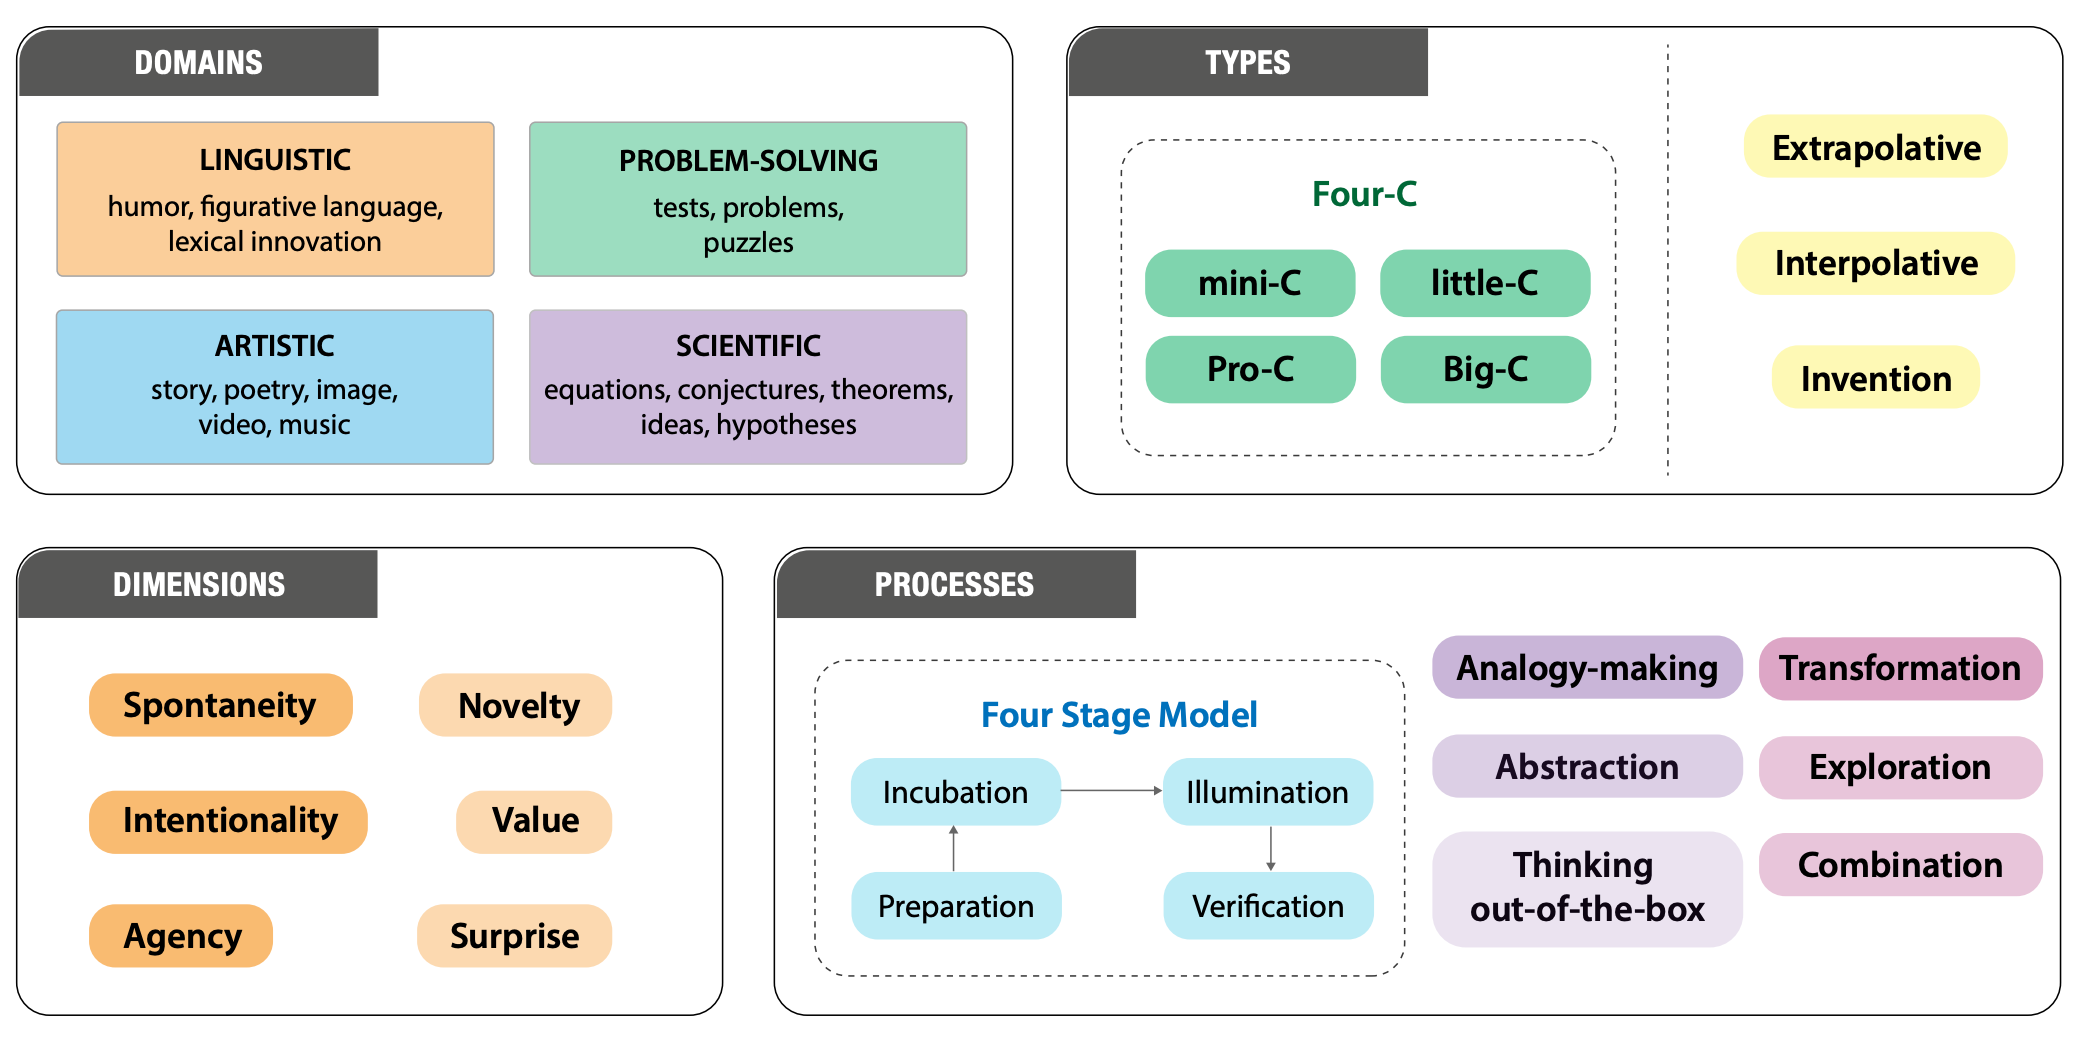
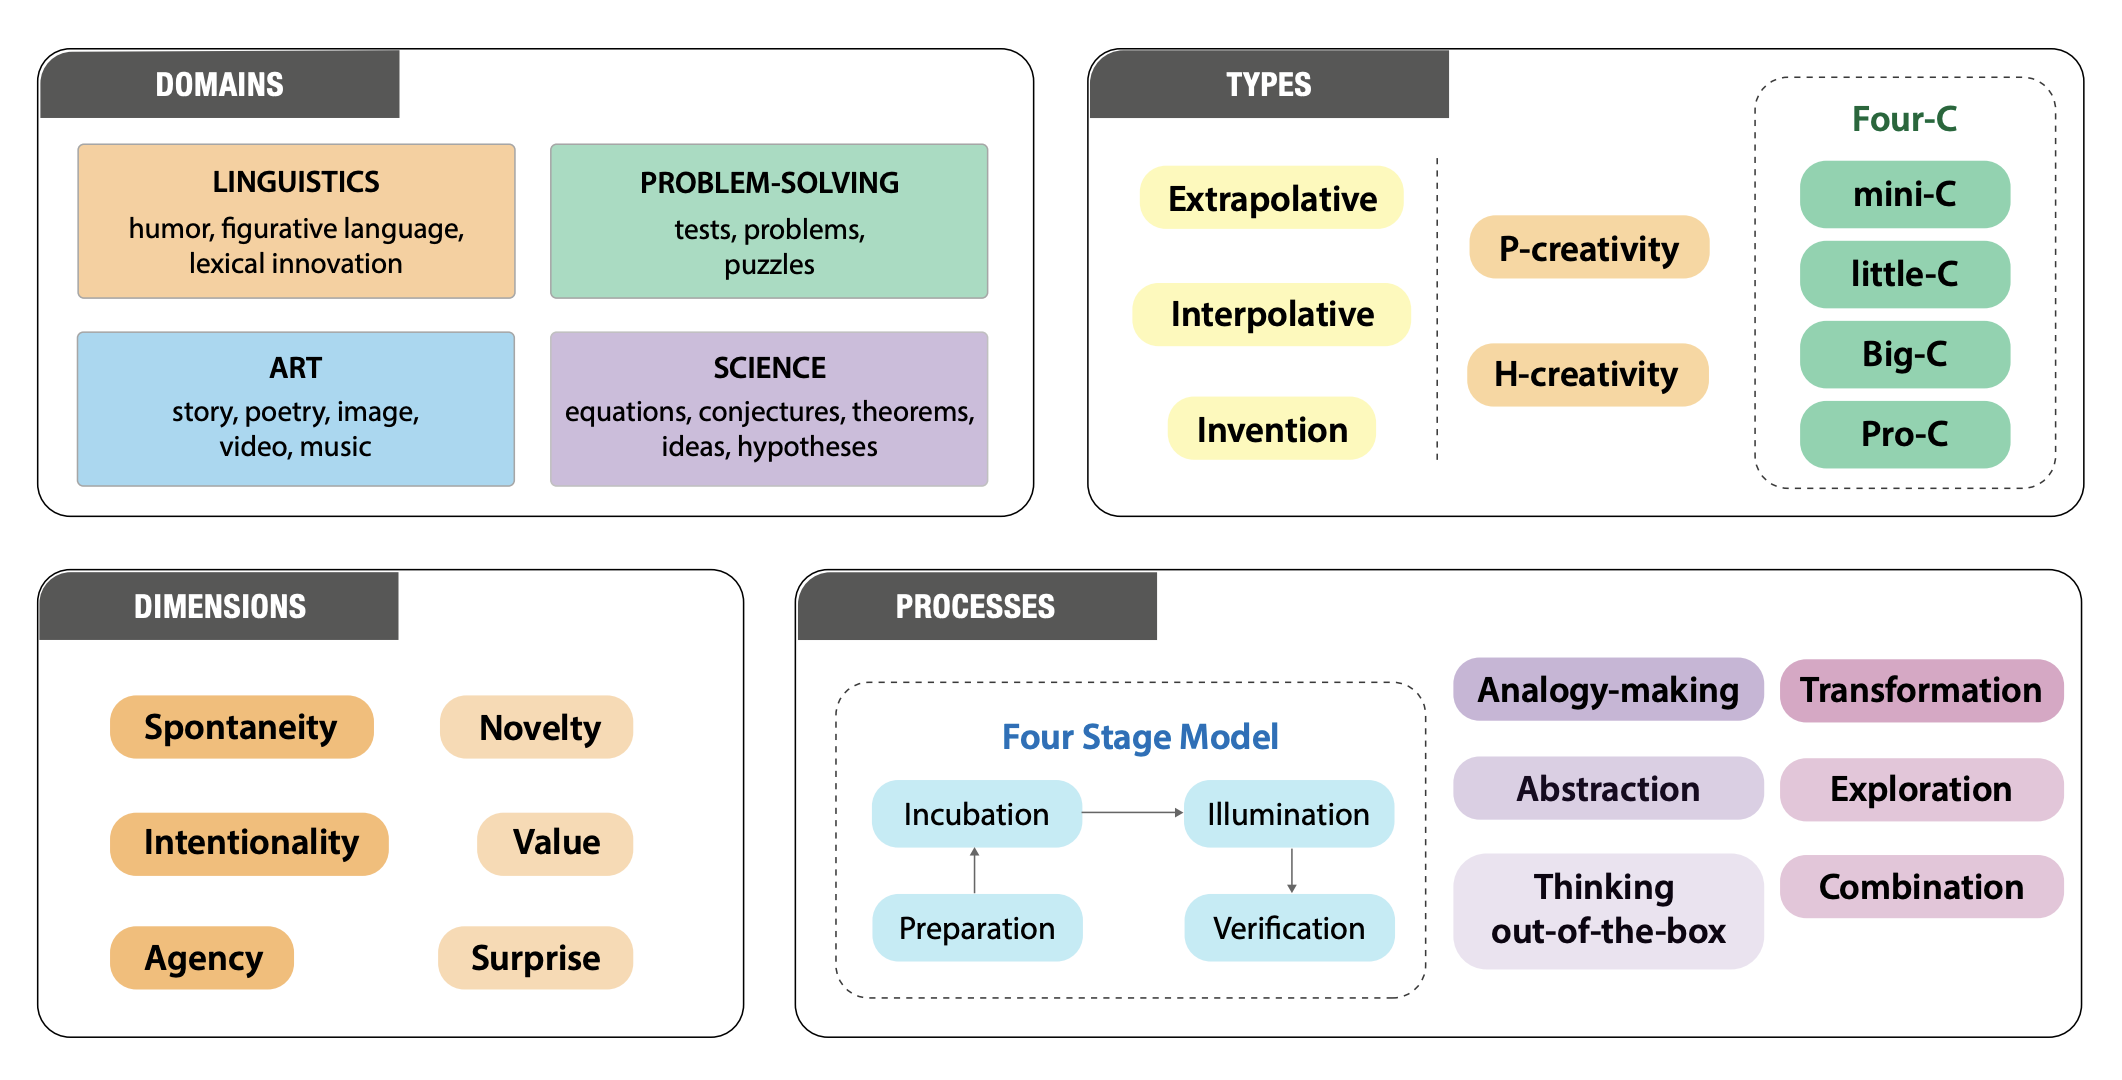
update main figure and add papers

diff --git a/README.md b/README.md
@@ -349,6 +349,12 @@ For more information, check out our [paper](https://arxiv.org/abs/2410.17218).
 
     <u>ArXiv.</u> 2024
 
+1. **[What makes a good story and how can we measure it? a comprehensive survey of story evaluation](https://www.arxiv.org/abs/2408.14622)**
+
+    *Dingyi Yang, Qin Jin*
+
+    <u>ArXiv.</u> 2024
+
 1. **[Evaluating Computational Creativity: An Interdisciplinary Tutorial](https://doi.org/10.1145/3167476)**
 
     *Carolyn Lamb, Daniel G. Brown, Charles L. A. Clarke*
@@ -1246,6 +1252,12 @@ For more information, check out our [paper](https://arxiv.org/abs/2410.17218).
 
     <u>Scientific Reports.</u> 2024
 
+1. **[{L}at{E}val: An Interactive {LLM}s Evaluation Benchmark with Incomplete Information from Lateral Thinking Puzzles](https://aclanthology.org/2024.lrec-main.889)**
+
+    *Shulin Huang, Shirong Ma, Yinghui Li, Mengzuo Huang, Wuhe Zou, Weidong Zhang, Haitao Zheng*
+
+    <u>Proceedings of the 2024 Joint International Conference on Computational Linguistics,Language Resources and Evaluation (LREC-COLING 2024)</u> 2024
+
 1. **[Assessing and Understanding Creativity in Large Language Models](https://api.semanticscholar.org/CorpusID:267094860)**
 
     *Yunpu Zhao, Rui Zhang, Wenyi Li, Di Huang, Jiaming Guo, Shaohui Peng, Yifan Hao, Yuanbo Wen, Xingui Hu, Zidong Du, Qi Guo, Ling Li, Yunji Chen*
@@ -1587,6 +1599,12 @@ For more information, check out our [paper](https://arxiv.org/abs/2410.17218).
 ## Artistic Creativity
 
 ### Story Generation
+1. **[Evaluating Creative Short Story Generation in Humans and Large Language Models](https://arxiv.org/abs/2411.02316)**
+
+    *Mete Ismayilzada, Claire Stevenson, Lonneke van der Plas*
+
+    <u>ArXiv.</u> 2024
+
 1. **[Pron vs Prompt: Can Large Language Models already Challenge a World-Class Fiction Author at Creative Text Writing?](https://api.semanticscholar.org/CorpusID:270870769)**
 
     *Guillermo Marco, Julio Gonzalo, Ram'on Castillo, Mar'ia Teresa Mateo Girona*
